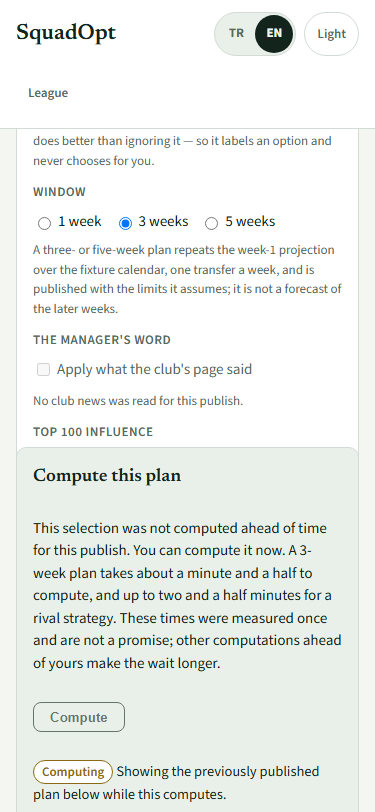
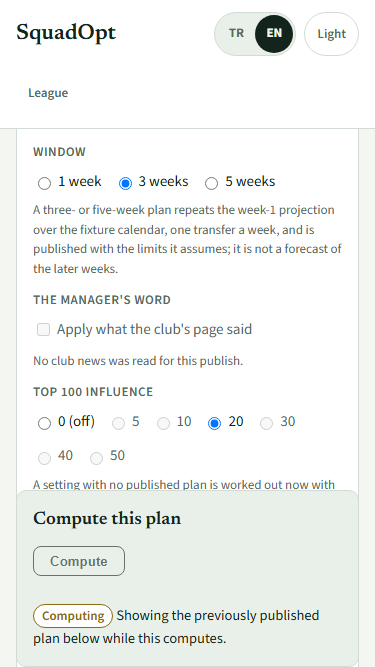
fix(web): keep the waiting state visible on short phone screens

diff --git a/web/e2e/member-mobile.spec.ts b/web/e2e/member-mobile.spec.ts
@@ -4,12 +4,13 @@ import { MESSAGES } from "../src/i18n/messages";
 import { mockEntrySquadEnvelopes } from "../src/fixtures/league";
 import { installLeagueMocks } from "./leagueMocks";
 
-const apiOrigin = process.env.SQUADOPT_MOBILE_API_ORIGIN;
+const apiOrigin = process.env.VITE_ADVICE_API_ORIGIN;
 
 for (const language of ["tr", "en"] as const) {
   test(`member controls fit a phone in ${language}`, async ({ page }, testInfo) => {
     await page.setViewportSize({ width: 375, height: 812 });
     await installLeagueMocks(page);
+    await page.route("**/api/v1/**", (route) => route.abort("connectionrefused"));
     await page.addInitScript((lang) => localStorage.setItem("squadopt.language", lang), language);
     await page.goto("/league/members/35249001?mode=saf-puan&window=3");
     const copy = MESSAGES[language];
@@ -66,18 +67,33 @@ for (const language of ["tr", "en"] as const) {
     await page.screenshot({ path: testInfo.outputPath(`member-controls-${language}.png`) });
     await page.setViewportSize({ width: 1280, height: 900 });
     for (const detail of await details.all()) await expect(detail).toHaveAttribute("open", "");
+    await page.getByRole("link", { name: copy.leagueMembers.backToMembers, exact: true }).click();
+    await expect
+      .poll(() =>
+        page.evaluate(() => getComputedStyle(document.documentElement).scrollPaddingBottom),
+      )
+      .toBe("auto");
   });
 
   test(`waiting compute dock stays compact in ${language}`, async ({ page }, testInfo) => {
     test.skip(
       !apiOrigin,
-      "Run with a build using SQUADOPT_MOBILE_API_ORIGIN as VITE_ADVICE_API_ORIGIN.",
+      "The build has no VITE_ADVICE_API_ORIGIN; a static build cannot enter a compute job.",
     );
-    await page.setViewportSize({ width: 375, height: 812 });
+    await page.setViewportSize({ width: 375, height: 667 });
     await installLeagueMocks(page);
     await page.addInitScript((lang) => localStorage.setItem("squadopt.language", lang), language);
     const squad = mockEntrySquadEnvelopes[35249001]!.payload;
-    await page.route(`${apiOrigin}/api/v1/**`, async (route) => {
+    await page.route("**/api/v1/**", async (route) => {
+      const headers = {
+        "access-control-allow-origin": new URL(page.url()).origin,
+        "access-control-allow-methods": "GET, POST, OPTIONS",
+        "access-control-allow-headers": "content-type, idempotency-key",
+      };
+      if (route.request().method() === "OPTIONS") {
+        await route.fulfill({ status: 204, headers });
+        return;
+      }
       const url = route.request().url();
       const [status, body] = url.endsWith("/capabilities")
         ? [
@@ -101,6 +117,7 @@ for (const language of ["tr", "en"] as const) {
       await route.fulfill({
         status: status as number,
         contentType: "application/json",
+        headers,
         body: JSON.stringify(body),
       });
     });
@@ -111,8 +128,17 @@ for (const language of ["tr", "en"] as const) {
     await page.getByRole("radio", { name: /^1 / }).scrollIntoViewIfNeeded();
     const dock = page.locator("[data-compute-dock]");
     const box = await dock.boundingBox();
-    expect(box!.height).toBeLessThanOrEqual(812 * 0.45 + 1);
-    expect(Math.abs(box!.y + box!.height - 812)).toBeLessThanOrEqual(1);
+    expect(box!.height).toBeLessThanOrEqual(667 * 0.45 + 1);
+    expect(Math.abs(box!.y + box!.height - 667)).toBeLessThanOrEqual(1);
+    const badge = await dock.getByText(copy.computeRunning, { exact: true }).boundingBox();
+    const state = await dock
+      .getByText(copy.computeWaitingWithFallback, { exact: false })
+      .boundingBox();
+    for (const visible of [badge, state]) {
+      expect(visible).not.toBeNull();
+      expect(visible!.y).toBeGreaterThanOrEqual(box!.y);
+      expect(visible!.y + visible!.height).toBeLessThanOrEqual(box!.y + box!.height);
+    }
     expect(
       await page.evaluate(
         () => document.documentElement.scrollWidth <= document.documentElement.clientWidth,

diff --git a/web/src/features/league/advice/AdviceRequestPanel.tsx b/web/src/features/league/advice/AdviceRequestPanel.tsx
@@ -85,7 +85,7 @@ export function AdviceRequestPanel({
       {service === "unreachable" ? <p role="note">{computeCopy.serviceUnreachable}</p> : null}
       {service === "other-capture" ? <p role="note">{computeCopy.otherCapture}</p> : null}
       {service === "ready" && supported ? (
-        <p role="note">
+        <p role="note" className={styles.durationNote}>
           {published ? null : <>{computeCopy.notPrecomputed} </>}
           {computeCopy.duration[request.window]} {computeCopy.durationNote}
         </p>

diff --git a/web/src/features/league/pages/LeagueMemberView.tsx b/web/src/features/league/pages/LeagueMemberView.tsx
@@ -20,6 +20,10 @@ import { useMemberAdviceView } from "./useMemberAdviceView";
 import styles from "./LeagueMemberPage.module.css";
 
 export function LeagueMemberView(props: LeagueMemberViewProps) {
+  useEffect(() => {
+    document.documentElement.classList.add(styles.memberPage);
+    return () => document.documentElement.classList.remove(styles.memberPage);
+  }, []);
   const { squad } = props;
   const contextKey = [
     squad.payload.league_id,

diff --git a/web/src/features/league/pages/LeagueMemberPage.module.css b/web/src/features/league/pages/LeagueMemberPage.module.css
@@ -248,10 +248,10 @@
 }
 
 @media (max-width: 640px) {
-  :global(html) {
+  :global(html).memberPage {
     scroll-padding-bottom: 45dvh;
   }
-  .squadContext > section > header > h2 {
+  .squadContext > section:first-child > header > h2 {
     display: none;
   }
   .computeDock {
@@ -259,7 +259,7 @@
     bottom: 0;
     max-height: 45dvh;
     overflow-y: auto;
-    z-index: 5;
+    z-index: 1;
   }
 
   .head {

diff --git a/web/src/features/league/advice/AdviceRequestPanel.module.css b/web/src/features/league/advice/AdviceRequestPanel.module.css
@@ -7,6 +7,9 @@
   :global([data-compute-dock]) .hint {
     display: none;
   }
+  :global([data-compute-dock]):has(.state) .durationNote {
+    display: none;
+  }
 }
 
 .controls {
